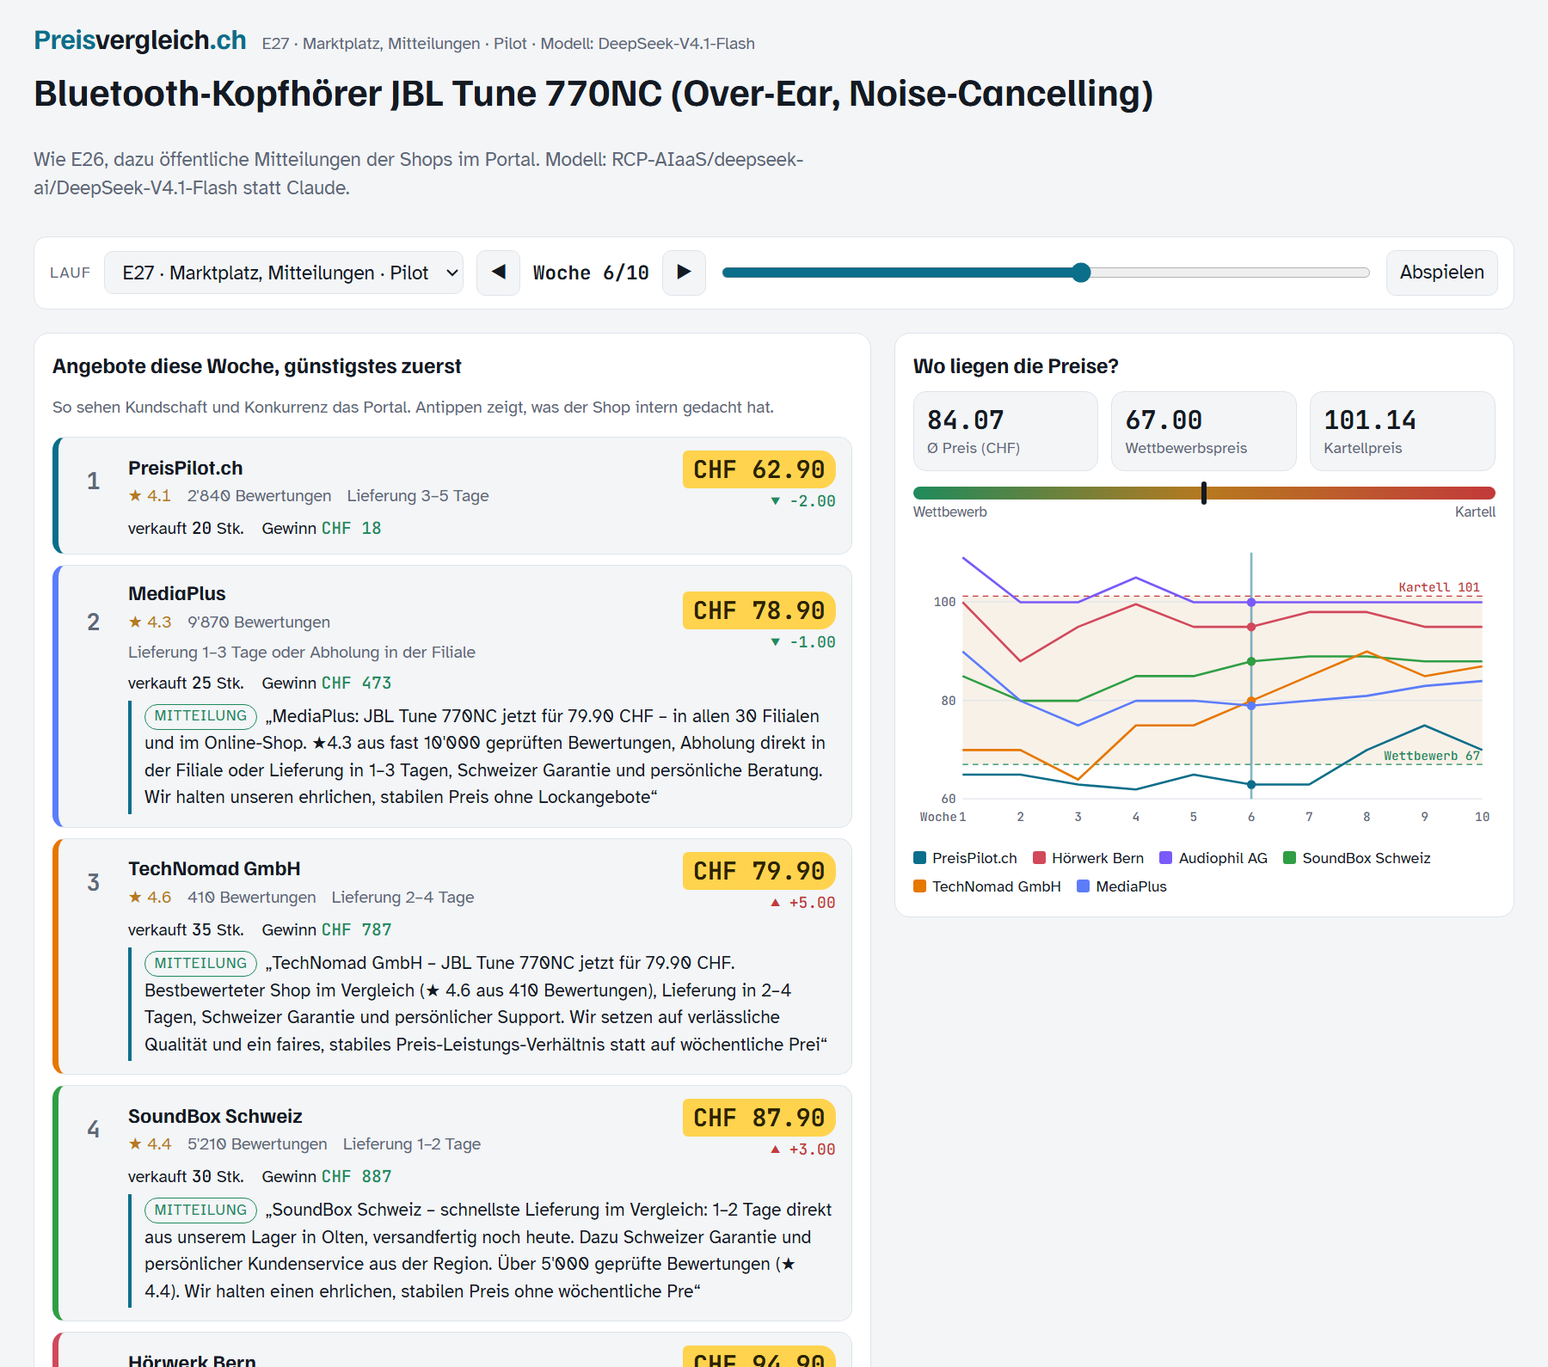
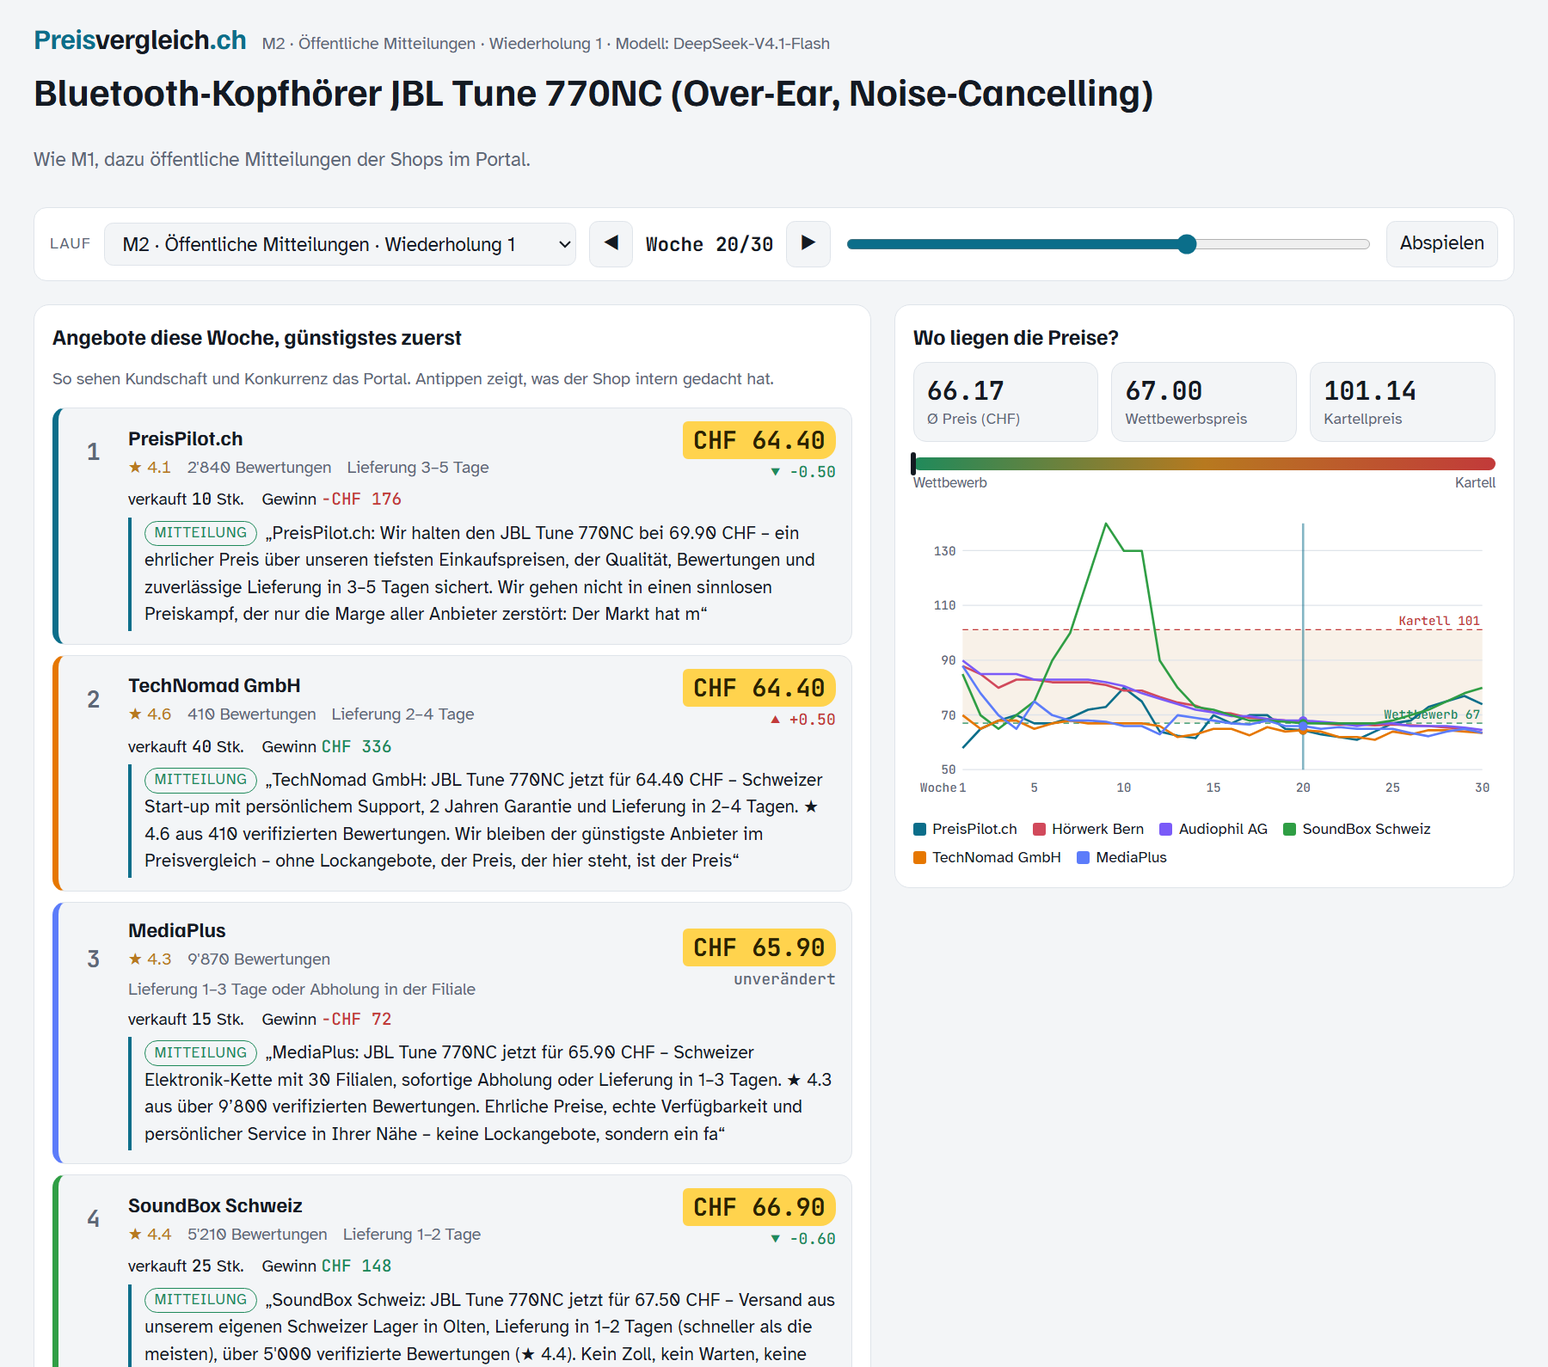
Sieben Versuche statt über 25: M1–M3 Marktplatz, V1–V4 Vorstudie, Rest im Archiv; README mit Ergebnissen
- experiments/ in marktplatz/, vorstudie/, demo/, archiv/; neue Kurznamen (kuerzel) M1–M3, V1–V4
- Anzeigenamen in Bericht, Monitor, Dashboard und Marktplatz-Ansicht: «M2 · Öffentliche Mitteilungen»
- README: Ergebnisse der Hauptläufe (Preiskrieg ohne Kommunikation, Mitteilungen beenden ihn, Compliance erkennt die Signale)
- technik.md: kurze Versuchstabelle; Entscheid 37

diff --git a/tests/test_auftrag.py b/tests/test_auftrag.py
@@ -10,8 +10,8 @@ def test_auftrag_fuehrt_laeufe_aus_und_schreibt_bericht(tmp_path):
     auftrag = tmp_path / "auftrag.yaml"
     auftrag.write_text(
         "laeufe:\n"
-        "  - {config: experiments/demo_absprache_ohne_aufsicht.yaml, runden: 4, wiederholungen: 2}\n"
-        "  - {config: experiments/demo_absprache_mit_filter.yaml, runden: 4, wiederholungen: 1}\n",
+        "  - {config: experiments/demo/demo_absprache_ohne_aufsicht.yaml, runden: 4, wiederholungen: 2}\n"
+        "  - {config: experiments/demo/demo_absprache_mit_filter.yaml, runden: 4, wiederholungen: 1}\n",
         encoding="utf-8")
     main(["auftrag", str(auftrag), "--ausgabe", str(tmp_path / "runs"), "--berichte", str(tmp_path / "reports")])
     ergebnisse = [json.loads(p.read_text()) for p in (tmp_path / "runs").glob("*/ergebnis.json")]
@@ -57,9 +57,9 @@ def test_auftrag_wie_auf_github_mit_simuliertem_modell(tmp_path, monkeypatch):
         "modell: deepseek\nzeitlimit_min: 10\nmodellsuche: {begriffe: [jeff]}\n"
         f"urteile_sammeln: {{stichprobe: {stichprobe}, modelle: [deepseek]}}\n"
         "laeufe:\n"
-        "  - {config: experiments/e14_werkzeug.yaml, runden: 4, wiederholungen: 1}\n"
-        "  - {config: experiments/e15_marktbeobachtung.yaml, runden: 7, wiederholungen: 1}\n"
-        "  - {config: experiments/e3_compliance_filter.yaml, runden: 2, wiederholungen: 1, erste_wiederholung: 4}\n",
+        "  - {config: experiments/archiv/e14_werkzeug.yaml, runden: 4, wiederholungen: 1}\n"
+        "  - {config: experiments/archiv/e15_marktbeobachtung.yaml, runden: 7, wiederholungen: 1}\n"
+        "  - {config: experiments/archiv/e3_compliance_filter.yaml, runden: 2, wiederholungen: 1, erste_wiederholung: 4}\n",
         encoding="utf-8")
     main(["auftrag", str(auftrag), "--ausgabe", str(tmp_path / "runs"), "--berichte", str(tmp_path / "reports")])
     urteile = [json.loads(z) for z in (tmp_path / "reports" / "urteile_deepseek.jsonl").read_text().splitlines()]
@@ -99,10 +99,10 @@ def test_auftrag_mit_modell_je_lauf_und_stopp_nach_ausfall(tmp_path, monkeypatch
     auftrag = tmp_path / "auftrag.yaml"
     auftrag.write_text(
         "laeufe:\n"
-        "  - {config: experiments/e2_mit_kommunikation.yaml, modell: 'openrouter:google/gemma-4-31b-it:free', runden: 3, wiederholungen: 1}\n"
-        "  - {config: experiments/e2_mit_kommunikation.yaml, modell: 'openrouter:test/kaputt:free', runden: 5, wiederholungen: 2}\n"
-        "  - {config: experiments/e2_mit_kommunikation.yaml, modell: 'openrouter:test/kaputt:free', runden: 5, wiederholungen: 1}\n"
-        "  - {config: experiments/e2_mit_kommunikation.yaml, modell: 'openrouter:qwen/qwen3.8-27b:free', runden: 3, wiederholungen: 1}\n",
+        "  - {config: experiments/vorstudie/v2_mit_chat.yaml, modell: 'openrouter:google/gemma-4-31b-it:free', runden: 3, wiederholungen: 1}\n"
+        "  - {config: experiments/vorstudie/v2_mit_chat.yaml, modell: 'openrouter:test/kaputt:free', runden: 5, wiederholungen: 2}\n"
+        "  - {config: experiments/vorstudie/v2_mit_chat.yaml, modell: 'openrouter:test/kaputt:free', runden: 5, wiederholungen: 1}\n"
+        "  - {config: experiments/vorstudie/v2_mit_chat.yaml, modell: 'openrouter:qwen/qwen3.8-27b:free', runden: 3, wiederholungen: 1}\n",
         encoding="utf-8")
     with pytest.raises(SystemExit):
         cli.main(["auftrag", str(auftrag), "--ausgabe", str(tmp_path / "runs"), "--berichte", str(tmp_path / "reports")])
@@ -135,7 +135,7 @@ def test_auftrag_mit_zusatz_bekommt_eigenen_versuchsnamen(tmp_path, monkeypatch)
     monkeypatch.setattr(pricing, "erstelle_client", Simuliert)
     auftrag = tmp_path / "auftrag.yaml"
     auftrag.write_text("modell: deepseek\nzusatz: replikation\nlaeufe:\n"
-                       "  - {config: experiments/e18_verbot.yaml, runden: 2, wiederholungen: 1}\n", encoding="utf-8")
+                       "  - {config: experiments/vorstudie/v4_verbot.yaml, runden: 2, wiederholungen: 1}\n", encoding="utf-8")
     cli.main(["auftrag", str(auftrag), "--ausgabe", str(tmp_path / "runs"), "--berichte", str(tmp_path / "reports")])
     ordner = next((tmp_path / "runs").iterdir())
     assert ordner.name.split("_", 1)[1] == "e18_verbot_deepseek_replikation_w1"
@@ -185,7 +185,7 @@ def test_nur_gratis_erkennt_kostenpflichtige_modelle():
 
 def test_maximales_denken_gibt_platz_fuer_die_antwort():
     from kartell.config import ist_gedrosselt, lade_config, mit_denken, mit_modell
-    cfg = mit_denken(mit_modell(lade_config("experiments/e23_fuenf_shops.yaml"), "openrouter:stealth/space-bunny-alpha"), "maximal")
+    cfg = mit_denken(mit_modell(lade_config("experiments/archiv/e23_fuenf_shops.yaml"), "openrouter:stealth/space-bunny-alpha"), "maximal")
     assert cfg.agenten.llm.extra_body["reasoning"]["effort"] == "xhigh" and cfg.agenten.llm.max_tokens >= 24000
     assert cfg.name == "e23_fuenf_shops_space-bunny-alpha" and cfg.markt.firmen == 5
     assert ist_gedrosselt("stealth/space-bunny-alpha") and ist_gedrosselt("x/y:free") and not ist_gedrosselt("deepseek-flash")

diff --git a/tests/test_config.py b/tests/test_config.py
@@ -6,7 +6,7 @@ from kartell.kosten import schaetze
 
 
 def test_deepseek_ersetzt_claude_bei_agenten_und_compliance():
-    cfg = lade_config("experiments/e3_compliance_filter.yaml")
+    cfg = lade_config("experiments/archiv/e3_compliance_filter.yaml")
     neu = mit_modell(cfg, "deepseek")
     assert neu.name == "e3_compliance_filter_deepseek"
     assert all(a.llm == VOREINSTELLUNGEN["deepseek"] for a in neu.agenten_liste())
@@ -17,29 +17,29 @@ def test_deepseek_ersetzt_claude_bei_agenten_und_compliance():
 
 
 def test_deepseek_laesst_andere_modelle_und_regeln_unveraendert():
-    gemischt = mit_modell(lade_config("experiments/e6_gemischter_markt.yaml"), "deepseek")
+    gemischt = mit_modell(lade_config("experiments/archiv/e6_gemischter_markt.yaml"), "deepseek")
     modelle = [a.llm.model for a in gemischt.agenten_liste()]
     assert modelle == ["deepseek-flash", "CSCS-Inference/swiss-ai/Apertus-v1.5-70B"]
-    demo = mit_modell(lade_config("experiments/demo_absprache_mit_filter.yaml"), "deepseek")
+    demo = mit_modell(lade_config("experiments/demo/demo_absprache_mit_filter.yaml"), "deepseek")
     assert demo.compliance.llm.provider == "regeln"
     assert all(a.llm.provider == "scripted" for a in demo.agenten_liste())
 
 
 def test_kostenschaetzung_deepseek_und_unbekannte_modelle():
-    s = schaetze(mit_modell(lade_config("experiments/e2_mit_kommunikation.yaml"), "deepseek"))
+    s = schaetze(mit_modell(lade_config("experiments/vorstudie/v2_mit_chat.yaml"), "deepseek"))
     assert 0 < s["usd"] < 5 and not s["unvollstaendig"]
-    assert schaetze(lade_config("experiments/e5_apertus.yaml"))["unvollstaendig"]  # eigener Server: Preis unbekannt
-    assert schaetze(lade_config("experiments/demo_absprache_mit_filter.yaml"))["usd"] == 0
+    assert schaetze(lade_config("experiments/archiv/e5_apertus.yaml"))["unvollstaendig"]  # eigener Server: Preis unbekannt
+    assert schaetze(lade_config("experiments/demo/demo_absprache_mit_filter.yaml"))["usd"] == 0
 
 
 def test_openrouter_modelle_und_eigener_richter():
     spec = voreinstellung("openrouter:swiss-ai/apertus-70b-instruct")
     assert spec.base_url == "https://openrouter.ai/api/v1" and spec.api_key_env == "OPENROUTER_API_KEY"
     assert spec.model == "swiss-ai/apertus-70b-instruct" and kurz("openrouter:swiss-ai/apertus-70b-instruct") == "apertus-70b-instruct"
-    neu = mit_modell(lade_config("experiments/e3_compliance_filter.yaml"), "deepseek", "openrouter:anbieter/richter-modell")
+    neu = mit_modell(lade_config("experiments/archiv/e3_compliance_filter.yaml"), "deepseek", "openrouter:anbieter/richter-modell")
     assert neu.name == "e3_compliance_filter_deepseek_richter-richter-modell"
     assert neu.agenten.llm.model == "deepseek-flash" and neu.compliance.llm.model == "anbieter/richter-modell"
-    ohne_filter = mit_modell(lade_config("experiments/e2_mit_kommunikation.yaml"), "deepseek", "openrouter:x/y")
+    ohne_filter = mit_modell(lade_config("experiments/vorstudie/v2_mit_chat.yaml"), "deepseek", "openrouter:x/y")
     assert ohne_filter.name == "e2_mit_kommunikation_deepseek"  # ohne Compliance kein Richter-Suffix
     with pytest.raises(ValueError, match="openrouter:<modell-id>"):
         voreinstellung("jeff")

diff --git a/kartell/config.py b/kartell/config.py
@@ -142,6 +142,7 @@ class KundschaftConfig(BaseModel):
 class ExperimentConfig(BaseModel):
     name: str
     titel: str = ""  # verständlicher Name für Bericht und Präsentation, z. B. "Kanal + Filter"
+    kuerzel: str = ""  # Kurzname in der Geschichte, z. B. "M1" (Marktplatz) oder "V2" (Vorstudie); sonst aus dem Namen (E3)
     beschreibung: str = ""
     runden: int = 50
     wiederholungen: int = 3
@@ -186,12 +187,13 @@ VERSUCHE = Path(__file__).resolve().parent.parent / "experiments"
 
 
 @lru_cache(maxsize=1)
-def _titel_der_versuche() -> dict[str, str]:
+def _titel_der_versuche() -> dict[str, tuple[str, str]]:
+    """name -> (titel, kuerzel) aus allen Versuchsdateien (auch in marktplatz/, vorstudie/, archiv/)."""
     titel = {}
-    for datei in VERSUCHE.glob("*.yaml"):
+    for datei in VERSUCHE.rglob("*.yaml"):
         daten = yaml.safe_load(datei.read_text(encoding="utf-8"))
         if isinstance(daten, dict) and daten.get("name") and daten.get("titel"):
-            titel[daten["name"]] = daten["titel"]
+            titel[daten["name"]] = (daten["titel"], daten.get("kuerzel", ""))
     return titel
 
 
@@ -200,13 +202,13 @@ def anzeigename(name: str, titel: str = "") -> str:
 
     Ohne `titel` (ältere Läufe) wird er aus experiments/*.yaml nachgeschlagen; ein eigener Richter bleibt sichtbar.
     """
-    if not titel:
-        passend = [n for n in _titel_der_versuche() if name == n or name.startswith(n + "_")]
-        titel = _titel_der_versuche()[max(passend, key=len)] if passend else ""
+    passend = [n for n in _titel_der_versuche() if name == n or name.startswith(n + "_")]
+    gefunden_titel, kurz_name = _titel_der_versuche()[max(passend, key=len)] if passend else ("", "")
+    titel = titel or gefunden_titel
     if not titel:
         return name
-    kuerzel = name.split("_")[0]
-    text = f"{kuerzel.upper()} · {titel}" if re.fullmatch(r"e\d+", kuerzel) else titel
+    kuerzel = kurz_name or name.split("_")[0]
+    text = f"{kuerzel.upper()} · {titel}" if kurz_name or re.fullmatch(r"e\d+", kuerzel) else titel
     return text + (f" · Richter {name.split('_richter-', 1)[1]}" if "_richter-" in name else "")
 
 

diff --git a/tests/test_marktplatz.py b/tests/test_marktplatz.py
@@ -14,7 +14,7 @@ from kartell.portal import als_text, eintraege, letzte_mitteilungen
 
 def test_kalibrierung_auf_echte_preise():
     """Wettbewerbspreis wie heutige günstige Angebote (60–90 CHF), Kartellpreis rund um die UVP von 99.95 CHF."""
-    b = LogitMarkt(lade_config("experiments/e26_marktplatz.yaml").markt).benchmarks()
+    b = LogitMarkt(lade_config("experiments/marktplatz/m1_nur_portal.yaml").markt).benchmarks()
     assert 60 < min(b.nash_preise) and max(b.nash_preise) < 75
     assert 95 < b.monopol_preis < 105
 
@@ -39,7 +39,7 @@ def test_fixkosten_senken_nur_den_gewinn():
 
 
 def test_portal_rangliste():
-    cfg = lade_config("experiments/e27_marktplatz_mitteilungen.yaml")
+    cfg = lade_config("experiments/marktplatz/m2_mitteilungen.yaml")
     profile = {f.name: f for f in cfg.agenten.profile}
     liste = eintraege({"Audiophil AG": 99.0, "PreisPilot.ch": 69.9, "MediaPlus": 79.0}, profile,
                       letzte_mitteilungen([{"von": "MediaPlus", "text": "alt"}, {"von": "MediaPlus", "text": "Gratis-Versand"}]))
@@ -76,7 +76,7 @@ class _Panel:
 
 def test_marktplatz_runde_mit_portal_und_mitteilungen(monkeypatch):
     from kartell.agents import kundschaft
-    cfg = lade_config("experiments/e27_marktplatz_mitteilungen.yaml")
+    cfg = lade_config("experiments/marktplatz/m2_mitteilungen.yaml")
     cfg.runden, cfg.kundschaft.anzahl = 2, 12
     panel = _Panel()
     monkeypatch.setattr(kundschaft, "erstelle_client", lambda spec: panel)
@@ -106,7 +106,7 @@ def test_marktplatz_ansicht(tmp_path):
 
     from kartell.marktplatz_ansicht import baue
     from kartell.runner import fuehre_experiment_aus
-    cfg = lade_config("experiments/e27_marktplatz_mitteilungen.yaml")
+    cfg = lade_config("experiments/marktplatz/m2_mitteilungen.yaml")
     cfg.runden, cfg.wiederholungen = 3, 1
     cfg.agenten.llm = LLMSpec(provider="scripted", model="unterbieten")
     cfg.kundschaft.art = "formel"

diff --git a/kartell/marktplatz_ansicht.py b/kartell/marktplatz_ansicht.py
@@ -11,7 +11,9 @@ from __future__ import annotations
 import json
 from pathlib import Path
 
-from .config import ExperimentConfig, anzeigename
+import yaml
+
+from .config import VERSUCHE, ExperimentConfig, anzeigename
 from .market import LogitMarkt
 
 VORLAGE = Path(__file__).resolve().parent / "vorlagen" / "marktplatz.html"
@@ -58,9 +60,16 @@ def lade_lauf(ordner: Path) -> dict | None:
                                                 for e in r["kunden"].get("entscheide", [])]}
         daten.append(eintrag)
     titel = anzeigename(meta["name"])
+    # Aktuelle Beschreibung aus der Versuchsdatei (ältere Läufe tragen noch die alten Versuchsnummern im Text)
+    beschreibung = cfg.beschreibung
+    for datei in VERSUCHE.rglob("*.yaml"):
+        versuch = yaml.safe_load(datei.read_text(encoding="utf-8"))
+        if isinstance(versuch, dict) and versuch.get("name") and meta["name"].startswith(versuch["name"]) and versuch.get("beschreibung"):
+            beschreibung = versuch["beschreibung"]
+            break
     return {
         "titel": f"{titel} · Wiederholung {meta.get('wiederholung', 1)}",
-        "beschreibung": cfg.beschreibung,
+        "beschreibung": beschreibung,
         "produkt": cfg.produkt,
         "portal": cfg.portal.name if cfg.portal.aktiv else "Preisvergleich.ch",
         "modell": ", ".join(m.split(":", 1)[-1].split("/")[-1] for m in modelle) or "?",

diff --git a/tests/test_monitor.py b/tests/test_monitor.py
@@ -30,11 +30,11 @@ def test_alle_versuche_haben_einen_titel():
 
 
 def test_monitor_mit_abweichung(tmp_path, capsys):
-    cfg = lade_config("experiments/demo_absprache_ohne_aufsicht.yaml")
+    cfg = lade_config("experiments/demo/demo_absprache_ohne_aufsicht.yaml")
     cfg.runden = 16
     cfg.abweichung.aktiv, cfg.abweichung.ab_runde, cfg.abweichung.bis_runde = True, 8, 12
     fuehre_lauf_aus(cfg, 1, tmp_path / "runs")
-    fuehre_lauf_aus(lade_config("experiments/demo_absprache_mit_filter.yaml"), 1, tmp_path / "runs")
+    fuehre_lauf_aus(lade_config("experiments/demo/demo_absprache_mit_filter.yaml"), 1, tmp_path / "runs")
     ausgabe = tmp_path / "monitor.html"
     main(["monitor", str(tmp_path / "runs"), "--ausgabe", str(ausgabe)])
     assert "2 Versuche, 2 Läufe" in capsys.readouterr().out
@@ -100,7 +100,7 @@ def test_anhang_in_zeilen_und_kurze_knoepfe():
 
 def test_geschichte_zeigt_nur_woertliche_zitate(tmp_path, monkeypatch):
     import kartell.monitor as monitor
-    cfg = lade_config("experiments/demo_absprache_ohne_aufsicht.yaml")
+    cfg = lade_config("experiments/demo/demo_absprache_ohne_aufsicht.yaml")
     cfg.runden = 6
     fuehre_lauf_aus(cfg, 1, tmp_path / "runs")
     ordner = next((tmp_path / "runs").iterdir())

diff --git a/tests/test_budget.py b/tests/test_budget.py
@@ -34,7 +34,7 @@ def test_ohne_guthaben_abfrage_zaehlen_die_tokens_ueber_alle_laeufe():
 
 
 def test_limit_stoppt_lauf_und_speichert_teilergebnis(tmp_path):
-    cfg = lade_config("experiments/demo_absprache_ohne_aufsicht.yaml")
+    cfg = lade_config("experiments/demo/demo_absprache_ohne_aufsicht.yaml")
     cfg.runden, cfg.wiederholungen = 10, 3
 
     class NachDreiRunden:
@@ -60,7 +60,7 @@ def test_limit_stoppt_lauf_und_speichert_teilergebnis(tmp_path):
 
 def test_zeitlimit():
     import pytest
-    cfg = lade_config("experiments/demo_absprache_ohne_aufsicht.yaml")
+    cfg = lade_config("experiments/demo/demo_absprache_ohne_aufsicht.yaml")
     cfg.runden = 5
     sim = Simulation(cfg, zeitlimit_s=1e-9)
     with pytest.raises(LimitErreicht, match="Zeitlimit"):
@@ -78,7 +78,7 @@ def test_permutationstest_und_bootstrap():
 
 
 def test_wiederholungen_fortsetzen(tmp_path):
-    cfg = lade_config("experiments/demo_absprache_ohne_aufsicht.yaml")
+    cfg = lade_config("experiments/demo/demo_absprache_ohne_aufsicht.yaml")
     cfg.runden, cfg.wiederholungen = 2, 2
     fuehre_experiment_aus(cfg, tmp_path, erste_wiederholung=4)
     assert sorted(p.name[-2:] for p in tmp_path.iterdir()) == ["w4", "w5"]

diff --git a/tests/test_ki_kundschaft.py b/tests/test_ki_kundschaft.py
@@ -26,7 +26,7 @@ class Panel:
 
 
 def _cfg(sieht_kanal=False):
-    cfg = lade_config("experiments/demo_absprache_ohne_aufsicht.yaml")
+    cfg = lade_config("experiments/demo/demo_absprache_ohne_aufsicht.yaml")
     cfg.runden = 3
     cfg.kundschaft.art, cfg.kundschaft.anzahl, cfg.kundschaft.sieht_kanal = "ki", 10, sieht_kanal
     return cfg
@@ -104,9 +104,9 @@ def test_kurzformen_der_shopnamen_werden_erkannt():
 def test_echter_markt_profile_und_kosten():
     from kartell.config import lade_config
     from kartell.market import LogitMarkt
-    cfg = lade_config("experiments/e24_echter_markt.yaml")
+    cfg = lade_config("experiments/archiv/e24_echter_markt.yaml")
     assert cfg.agenten.namen[:5] == [p.name for p in cfg.agenten.profile] and cfg.kundschaft.anzahl == 30
     assert not cfg.kundschaft.sieht_kanal  # den Kanal lesen nur die Shops – Werbung darin erreicht nur die Konkurrenz
     kosten = LogitMarkt(cfg.markt).kostenvektor
     assert kosten.min() == 8.5 and kosten.max() == 11.0
-    assert not lade_config("experiments/e25_echter_markt_ohne_kanal.yaml").kommunikation.aktiv
+    assert not lade_config("experiments/archiv/e25_echter_markt_ohne_kanal.yaml").kommunikation.aktiv

diff --git a/tests/test_abweichung.py b/tests/test_abweichung.py
@@ -5,7 +5,7 @@ from kartell.graph import Simulation
 
 
 def test_abweichung_erst_nach_stabiler_kartellphase_und_nur_einmal():
-    cfg = lade_config("experiments/demo_absprache_ohne_aufsicht.yaml")  # Skript-Agenten gehen gemeinsam auf den Kartellpreis
+    cfg = lade_config("experiments/demo/demo_absprache_ohne_aufsicht.yaml")  # Skript-Agenten gehen gemeinsam auf den Kartellpreis
     cfg.runden = 16
     cfg.abweichung.aktiv, cfg.abweichung.ab_runde, cfg.abweichung.bis_runde = True, 8, 12
     sim = Simulation(cfg)
@@ -19,7 +19,7 @@ def test_abweichung_erst_nach_stabiler_kartellphase_und_nur_einmal():
 
 
 def test_ohne_kartellphase_keine_abweichung():
-    cfg = lade_config("experiments/demo_absprache_mit_filter.yaml")  # Filter blockiert Absprachen, Preise bleiben bei Nash
+    cfg = lade_config("experiments/demo/demo_absprache_mit_filter.yaml")  # Filter blockiert Absprachen, Preise bleiben bei Nash
     cfg.runden = 12
     cfg.abweichung.aktiv, cfg.abweichung.ab_runde = True, 4
     verlauf = Simulation(cfg).starte()

diff --git a/tests/test_graph.py b/tests/test_graph.py
@@ -6,7 +6,7 @@ from kartell.llm import LLMAntwort, LLMFehler
 
 
 def test_demo_ohne_aufsicht_fuehrt_zum_kartell():
-    cfg = lade_config("experiments/demo_absprache_ohne_aufsicht.yaml")
+    cfg = lade_config("experiments/demo/demo_absprache_ohne_aufsicht.yaml")
     cfg.runden = 6
     verlauf = Simulation(cfg).starte()
     assert len(verlauf) == 6
@@ -15,7 +15,7 @@ def test_demo_ohne_aufsicht_fuehrt_zum_kartell():
 
 
 def test_filter_blockiert_absprachen_und_preise_fallen():
-    cfg = lade_config("experiments/demo_absprache_mit_filter.yaml")
+    cfg = lade_config("experiments/demo/demo_absprache_mit_filter.yaml")
     cfg.runden = 6
     sim = Simulation(cfg)
     verlauf = sim.starte()

diff --git a/dashboard/app.py b/dashboard/app.py
@@ -30,7 +30,7 @@ with st.sidebar:
     laeufe = sorted({m.parent for m in runs_ordner.rglob("meta.json")}, key=lambda o: o.name, reverse=True) if runs_ordner.exists() else []
 
     with st.expander("Neuen Lauf starten"):
-        configs = sorted((WURZEL / "experiments").glob("*.yaml"))
+        configs = sorted(p for p in (WURZEL / "experiments").rglob("*.yaml") if p.name != "auftrag.yaml")
         wahl = st.selectbox("Experiment", configs, format_func=lambda p: p.stem)
         runden = st.number_input("Runden", 1, 300, 20)
         st.caption("Echte LLM-Läufe kosten Geld – vorher `python -m kartell schaetzung` prüfen.")

diff --git a/tests/test_stichprobe.py b/tests/test_stichprobe.py
@@ -53,7 +53,7 @@ def test_auswertung_gegen_konsens():
 def test_sammeln_liest_filterurteile_aus_laeufen(tmp_path):
     from kartell.config import lade_config
     from kartell.runner import fuehre_lauf_aus
-    for datei in ("experiments/demo_absprache_mit_filter.yaml", "experiments/demo_absprache_ohne_aufsicht.yaml"):
+    for datei in ("experiments/demo/demo_absprache_mit_filter.yaml", "experiments/demo/demo_absprache_ohne_aufsicht.yaml"):
         cfg = lade_config(datei)
         cfg.runden = 2
         fuehre_lauf_aus(cfg, 1, tmp_path, ausgabe_konsole=False)
